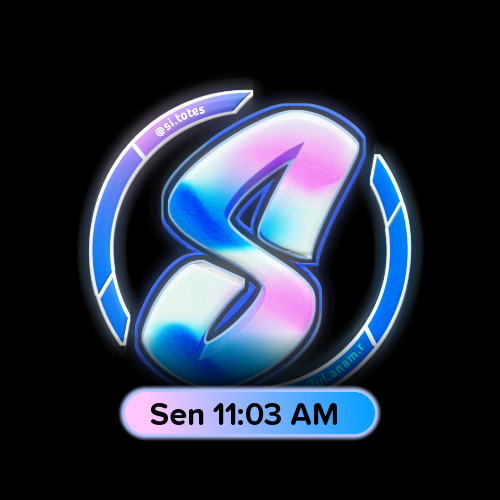
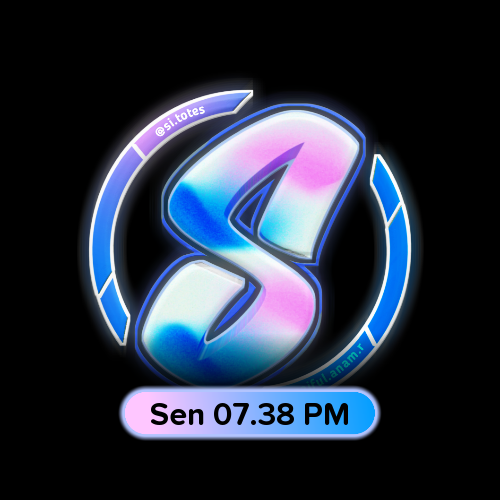
m

Changed region(s): [[0.42, 0.78, 0.72, 0.87]]

diff --git a/onic.js b/onic.js
@@ -351,37 +351,31 @@ async function startonic() {
         }
     })
     
-    const interval = 20 * 60 * 1000
+    setInterval(async function(){
+        const interval = 20 * 60 * 1000
+        const image = await Jimp.read('./src/.sitotes/media/image/sitotes.png')
+        const emptyImage = new Jimp(image.getWidth(), image.getHeight(), 0x00000000)
 
-    setInterval(function(){
-        Jimp.read('./src/.sitotes/media/image/sitotes.png')
-            .then(async image => {
-                const emptyImage = new Jimp(image.getWidth(), image.getHeight(), 0x00000000)
+        emptyImage.composite(image, 0, 0);
 
-                emptyImage.composite(image, 0, 0);
+        const date = new Date();
+        date.setHours(date.getHours() + 7);
+        const daysOfWeek = ['Min', 'Sen', 'Sel', 'Rab', 'Kam', 'Jum', 'Sab'];
+        const currentTime = daysOfWeek[date.getDay()] + ' ' + date.toLocaleTimeString('id-ID', {
+            hour: '2-digit',
+            minute: '2-digit',
+            hour12: true
+        });
 
-                const date = new Date();
-                date.setHours(date.getHours() + 7);
-                const daysOfWeek = ['Min', 'Sen', 'Sel', 'Rab', 'Kam', 'Jum', 'Sab'];
-                const currentTime = daysOfWeek[date.getDay()] + ' ' + date.toLocaleTimeString('id-ID', {
-                    hour: '2-digit',
-                    minute: '2-digit',
-                    hour12: true
-                });
+        const font = await Jimp.loadFont(Jimp.FONT_SANS_32_WHITE)
+        const customFont = await Jimp.loadFont('./src/.sitotes/media/font/fnt/proxima-soft.fnt')
 
-                Jimp.loadFont(Jimp.FONT_SANS_32_WHITE).then(async font => {
-                    Jimp.loadFont('./src/.sitotes/media/font/fnt/proxima-soft.fnt').then(async customFont => {
+        await emptyImage.print(customFont, (500 / 4 + 25), (500 / 2 + 149), currentTime);
 
-                        await emptyImage.print(customFont, (500 / 4 + 25), (500 / 2 + 149), currentTime);
-
-                        await emptyImage.writeAsync('./src/.sitotes/media/image/output.png');
-                        
-                        return await onic.updateProfilePicture(onic.user.id, {
-                            url: './src/.sitotes/media/image/output.png'
-                        })
-                    });
-                });
-            })
+        await emptyImage.writeAsync('./src/.sitotes/media/image/output.png');
+        await onic.updateProfilePicture(onic.user.id, {
+            url: './src/.sitotes/media/image/output.png'
+        })
     
     }, interval);
 

diff --git a/slebeww.js b/slebeww.js
@@ -22,7 +22,7 @@ const chalk = require('chalk')
 const speed = require('performance-now')
 const moment = require("moment-timezone")
 const path = require('path')
-
+const Jimp = require('jimp')
 
 //━━━[ @SITOTES LIB ]━━━━━━━━━━━━━━━━━━━━━━━━━━━━━━━━━━━━━━━━━━━━━━━━━━━━━━━━━━━━━━━━━━━━━━━━━━━━━━━━━━━━━━━━━━━━━━━━━━━━━━━━━━━━━━━━\\
 const svdata = () => fs.writeFileSync(`./src/.sitotes/data/database.json`, JSON.stringify(global.db, null, 2))
